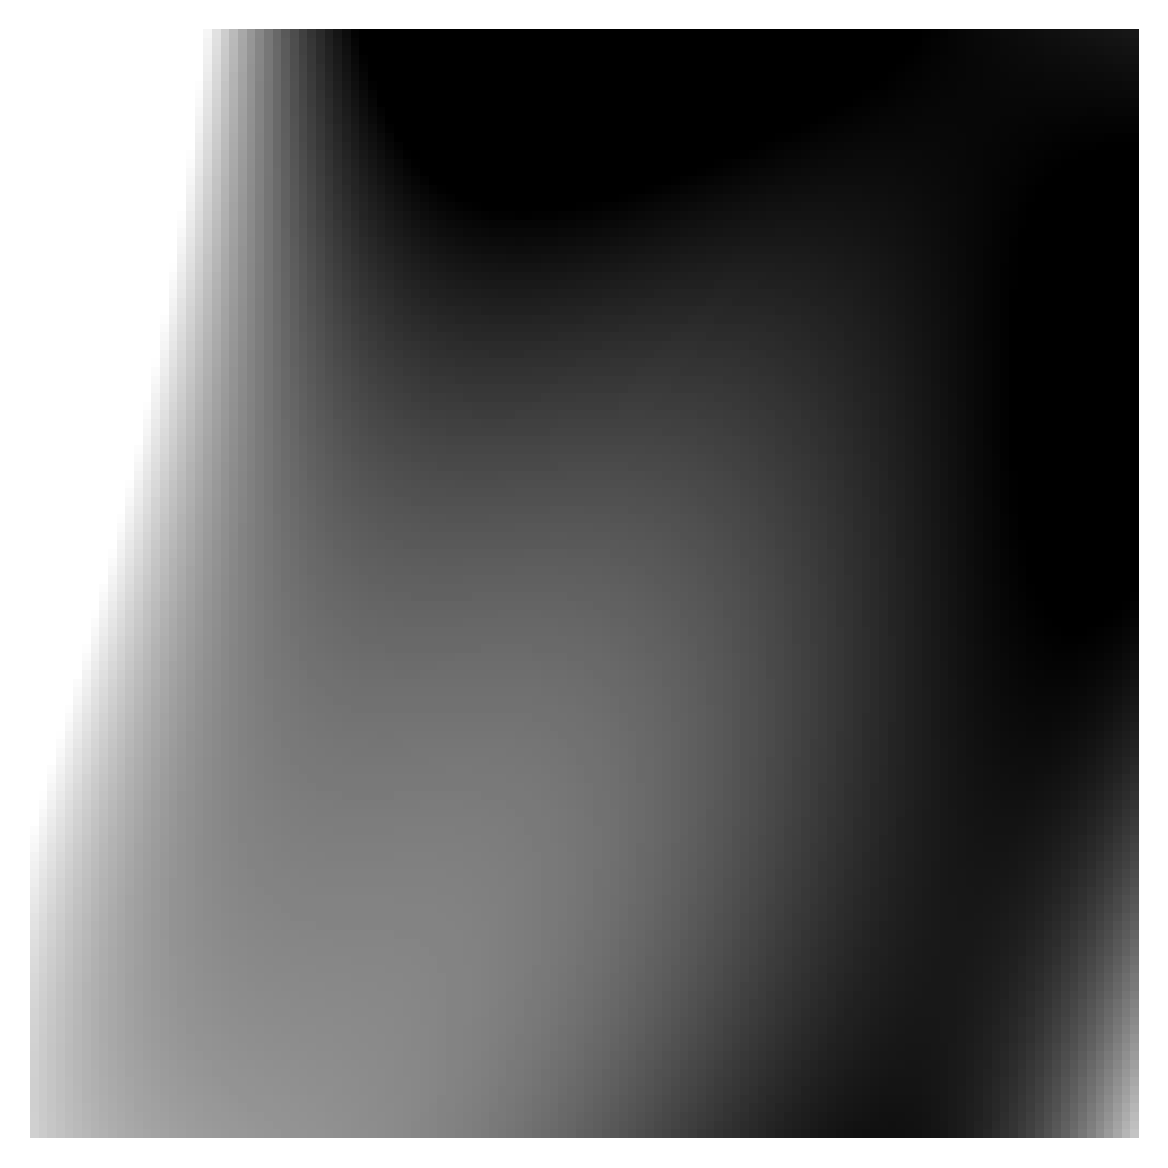
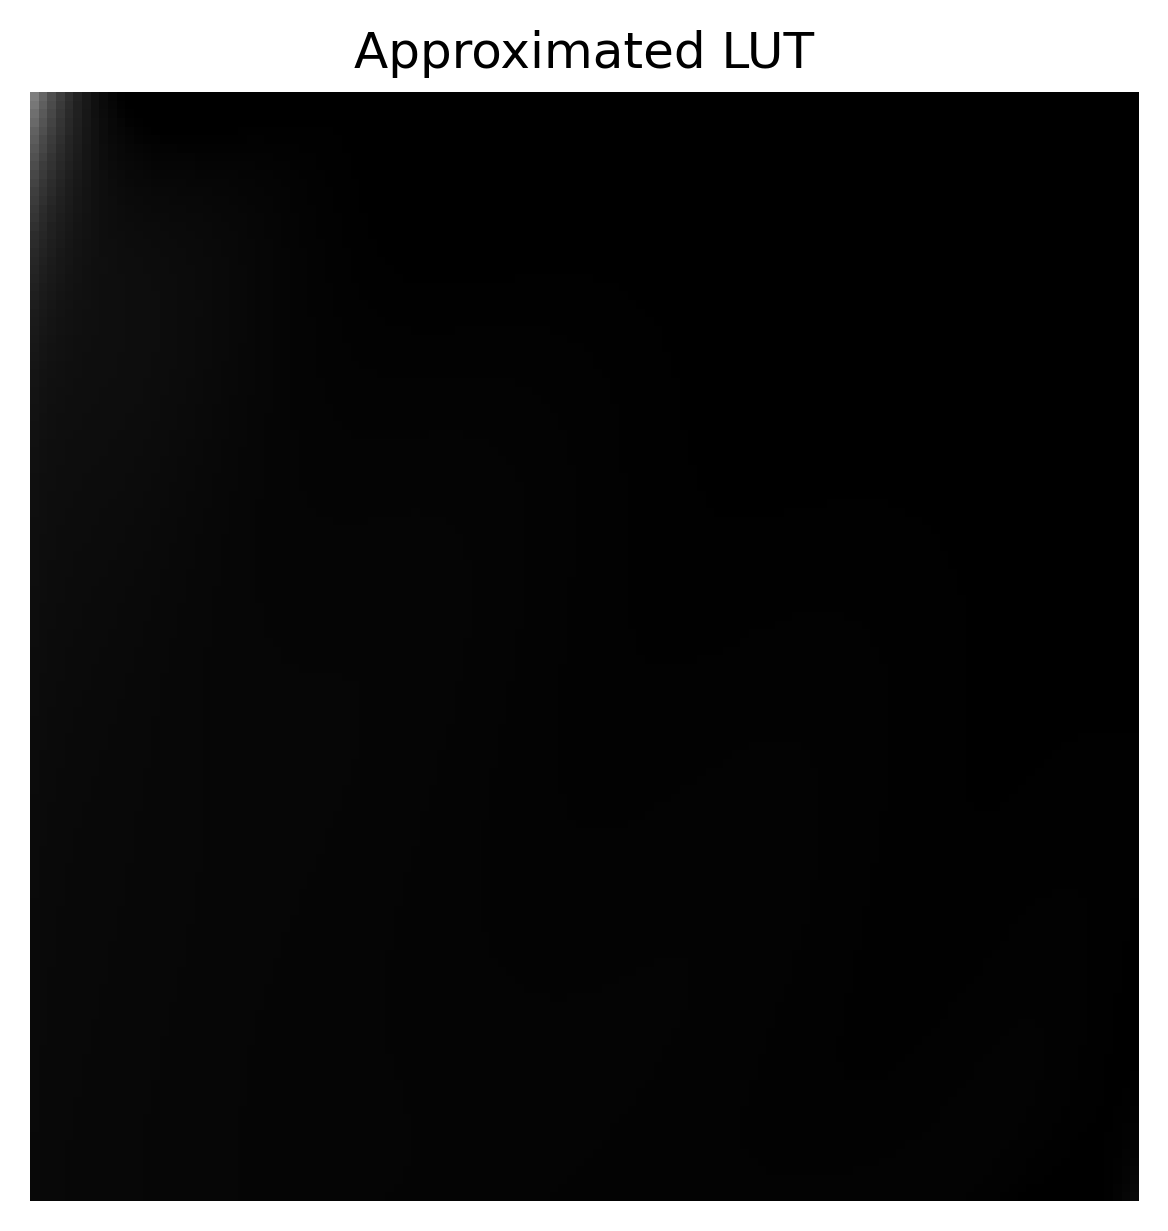
Make a comparison lut.

diff --git a/main.py b/main.py
@@ -21,7 +21,6 @@ import numpy as np
 import sympy
 import matplotlib.pyplot as plt
 from skimage.metrics import structural_similarity as ssim
-from scipy.optimize import minimize
 
 def main():
     # Load data
@@ -36,12 +35,12 @@ def main():
     lut = np.array(data).reshape(128, 128)
     print(f"Original LUT range: min={np.min(lut):.4f}, max={np.max(lut):.4f}")
 
-    # Raw array indices
-    r = np.arange(128)  # roughness indices 0-127
-    c = np.arange(128)  # cos_theta indices 0-127
+    # Normalized coordinates (0-1 for stability in fitting)
+    r = np.linspace(0, 1, 128)  # roughness 0-1
+    c = np.linspace(0, 1, 128)  # cos_theta 0-1
 
-    # Fit 2D polynomial of degree 4 for improved fit under 0.001 MSE
-    deg = 4
+    # Fit triangular 2D polynomial of higher degree 10 for more precision in low areas (e.g., top left corner)
+    deg = 10
     terms = []
     for i in range(deg + 1):
         for j in range(deg + 1 - i):
@@ -56,57 +55,62 @@ def main():
         X[:, k] = R_.ravel() ** i * C_.ravel() ** j
         k += 1
 
-    # Initial least squares fit as starting point
-    initial_coeffs, _, _, _ = np.linalg.lstsq(X, lut.ravel(), rcond=None)
-
-    def negative_ssim(coeffs):
-        approx = np.dot(X, coeffs).reshape(128, 128)
-        return -ssim(lut, np.clip(approx, 0, None), data_range=np.max(lut))
-
-    # Optimize coefficients for maximum SSIM
-    res = minimize(negative_ssim, initial_coeffs, method='BFGS')
-    coeffs = res.x
+    # Least squares fit (minimizes MSE)
+    coeffs, residuals, rank, s = np.linalg.lstsq(X, lut.ravel(), rcond=None)
 
     # Symbolic variables
-    x, y = sympy.symbols('r cos_theta')  # assuming r is roughness, cos_theta is something
+    x, y = sympy.symbols('roughness cos_theta')  # normalized 0-1
 
     # Build the expression
     expr = sum(coeffs[k] * x**i * y**j for k, (i, j) in enumerate(terms))
 
     # Optional: check the fit quality
     lut_approx = np.dot(X, coeffs).reshape(128, 128)
-    print(f"Approximated LUT range: min={np.min(lut_approx):.4f}, max={np.max(lut_approx):.4f}")
+    mse = np.mean((lut - lut_approx)**2)
     ssim_val = ssim(lut, np.clip(lut_approx, 0, None), data_range=np.max(lut))
-    print(f"SSIM optimization success: {res.success}")
-    if not res.success:
-        print(f"Optimization message: {res.message}")
-    print("Approximated analytical expression for the sheen LUT:")
+    print("Approximated analytical expression for the sheen LUT (normalize inputs to 0-1):")
     print(sympy.simplify(expr))
+    print(f"Mean Squared Error: {mse:.6f}")
     print(f"Structural Similarity Index (SSIM): {ssim_val:.4f}")
 
-    # Clip negative values in approximation for visualization (as sheen values can't be negative)
-    lut_display = lut
-    lut_approx_display = np.clip(lut_approx, 0, None)
-
-    # Use percentile scaling for better contrast and visibility (shared across both images)
-    vmin = np.percentile(lut_display, 5)
-    vmax = np.percentile(lut_display, 95)
-
-    print(f"Display range (5th to 95th percentile): vmin={vmin:.4f}, vmax={vmax:.4f}")
+    # Save individual images
+    vmin = 0.0
+    vmax = np.max(lut)
 
     plt.figure()
-    plt.imshow(lut_display, cmap='gray', origin='lower', vmin=vmin, vmax=vmax)
+    plt.imshow(lut, cmap='gray', origin='lower', vmin=vmin, vmax=vmax)
+    plt.title('Original LUT')
     plt.axis('off')
     plt.savefig('original_lut.png', dpi=300, bbox_inches='tight')
     plt.close()
 
     plt.figure()
-    plt.imshow(lut_approx_display, cmap='gray', origin='lower', vmin=vmin, vmax=vmax)
+    plt.imshow(lut_approx, cmap='gray', origin='lower', vmin=vmin, vmax=vmax)
+    plt.title('Approximated LUT')
     plt.axis('off')
     plt.savefig('approximated_lut.png', dpi=300, bbox_inches='tight')
     plt.close()
 
-    print("Images saved as original_lut.png and approximated_lut.png")
+    # Create comparison image to highlight differences
+    diff = np.abs(lut - lut_approx)
+    max_diff = np.max(diff)
+
+    fig, axes = plt.subplots(1, 3, figsize=(15, 5))
+    axes[0].imshow(lut, cmap='gray', origin='lower', vmin=vmin, vmax=vmax)
+    axes[0].set_title('Original LUT')
+    axes[0].axis('off')
+    axes[1].imshow(lut_approx, cmap='gray', origin='lower', vmin=vmin, vmax=vmax)
+    axes[1].set_title('Approximated LUT')
+    axes[1].axis('off')
+    im = axes[2].imshow(diff, cmap='hot', origin='lower', vmin=0, vmax=max_diff)
+    axes[2].set_title('Absolute Difference (|Original - Approx|)')
+    axes[2].axis('off')
+    plt.colorbar(im, ax=axes[2])
+    plt.tight_layout()
+    plt.savefig('comparison_lut.png', dpi=300, bbox_inches='tight')
+    plt.close()
+
+    print("Images saved: original_lut.png, approximated_lut.png, comparison_lut.png (side-by-side with difference)")
 
 if __name__ == "__main__":
     main()
